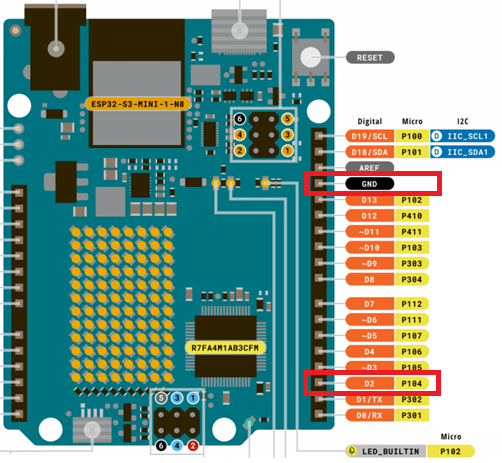
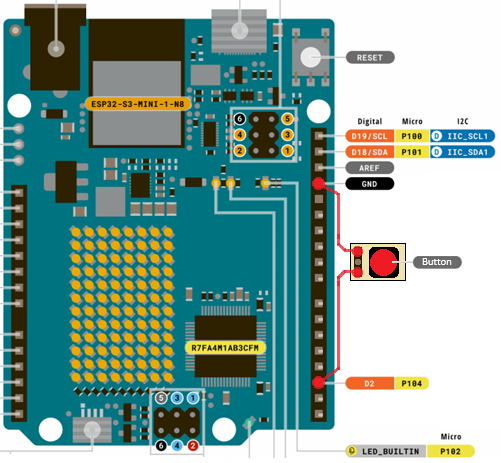
#4366_mod_1,4,5章画像修正

diff --git a/boards/uno_r4_wifi/Arduino_UNO_R4_WiFi編.md b/boards/uno_r4_wifi/Arduino_UNO_R4_WiFi編.md
@@ -23,6 +23,7 @@
 |---|---|---|---|
 | 0.1 | 2026/11/25 | 吉田 | 新規作成 |
 | 0.2 | 2026/11/27 | 吉田、中西 | 第0~6章の記述を修正 |
+| 0.3 | 2026/11/27 | 吉田、中西 | 第1,4,5章の画像修正 |
 
 ---
 
@@ -174,7 +175,7 @@ C++ の基礎知識を有していること。<br>
 
 1. ボード情報を確認する。<br>
     <img src="./images/u1_install_check_08.png" width=40%><br>
-    > 確認:「Arduino UNO R4 WiFi」 のボード情報が表示できていれば、デバイスドライバのインストールが成功したことが確認できる。<br>
+    > 確認:「BN: Arduino UNO R4 WiFi」 と表示されれば、デバイスドライバのインストールが成功したことが確認できる。<br>
 
 ## 2. シリアルターミナルの使い方
 この章では、シリアルモニタの使い方について記述する。
